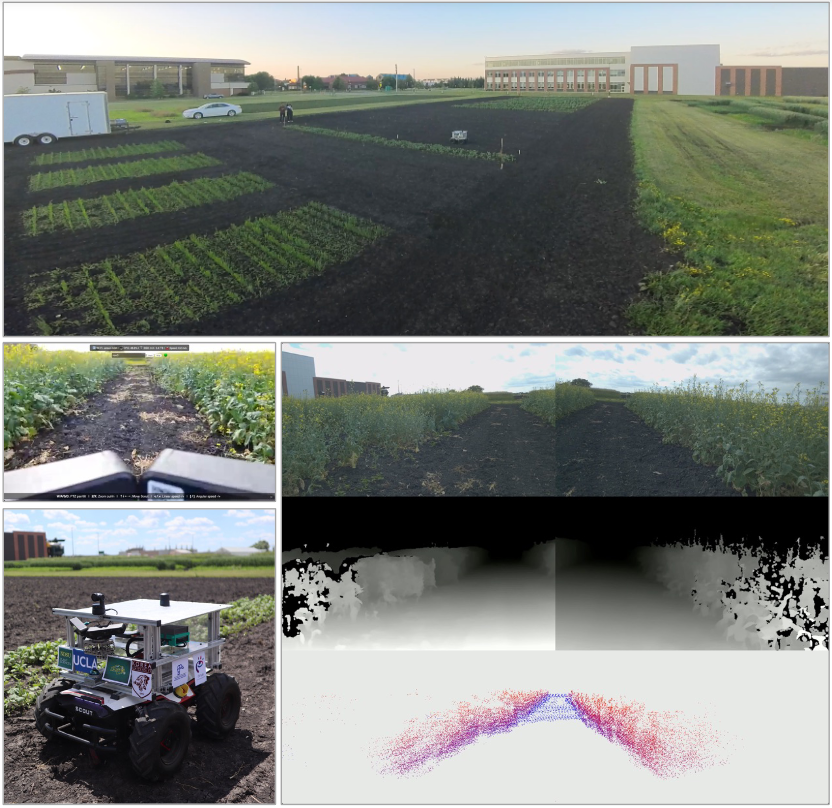
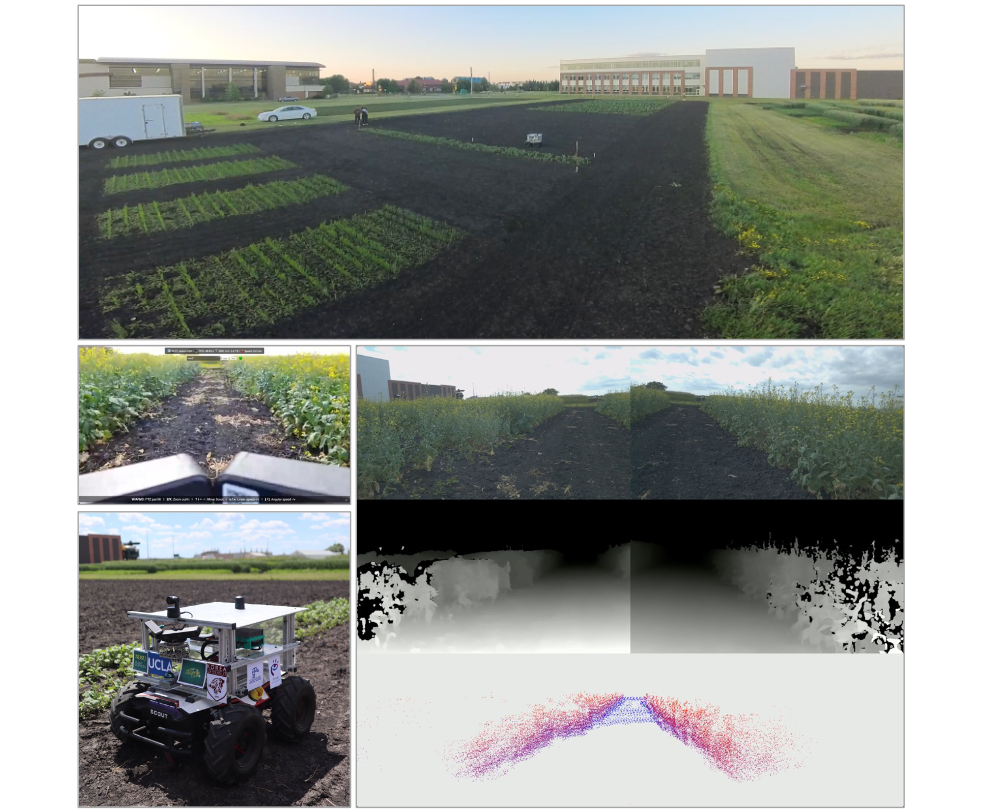
adjust image size

diff --git a/_pages/about.html b/_pages/about.html
@@ -214,7 +214,7 @@ author_profile: true
       <em>Preprint</em>, 2024 <br>
       <span class="links">
       <a href="https://drive.google.com/file/d/1Qa4vG-d1Jq1zG4YGL3mggenHulWsMaLb/view?usp=drive_link">Paper</a>
-      </span> <br> </p>
+      </span> <br> <br> </p>
     </div>
   </div>
 
@@ -320,7 +320,7 @@ author_profile: true
       <a href="https://marinegpt.hkustvgd.com/">Project Page</a>
       <a href="https://arxiv.org/abs/2310.13596">Paper (arxiv)</a>
       <a href="https://github.com/hkust-vgd/MarineGPT">Code</a>
-      </span> <br> <br> </p>
+      </span> <br> <br> <br> <br></p>
     </div>
   </div>
 
@@ -358,7 +358,7 @@ author_profile: true
       <span class="links">
       <a href="https://arxiv.org/pdf/2508.21135">Paper</a>
       <a href="https://github.com/StructuresComp/hidden-fruits">Project Page</a>
-      </span> <br> </p>
+      </span> <br> <br> <br> <br> </p>
     </div>
   </div>
 
@@ -503,7 +503,7 @@ author_profile: true
         <a href="https://jaehwan-j.github.io/agrichrono/"">Project Page</a>
         <a href="http://arxiv.org/pdf/2508.18694">Paper</a>
         <a href="https://github.com/StructuresComp/agri-chrono">Code</a>
-      </span> <br> </p>
+      </span> <br> <br> <br> </p>
     </div>
   </div>
 
@@ -518,7 +518,7 @@ author_profile: true
       <em>Preprint</em>, 2024 <br>
       <span class="links">
       <a href="https://arxiv.org/abs/2405.14169">Paper</a>
-      </span> <br> </p>
+      </span> <br> <br> </p>
     </div>
   </div>
 
